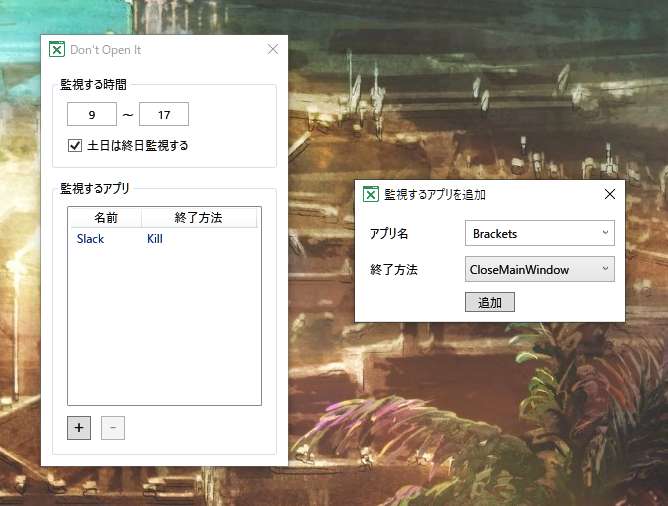
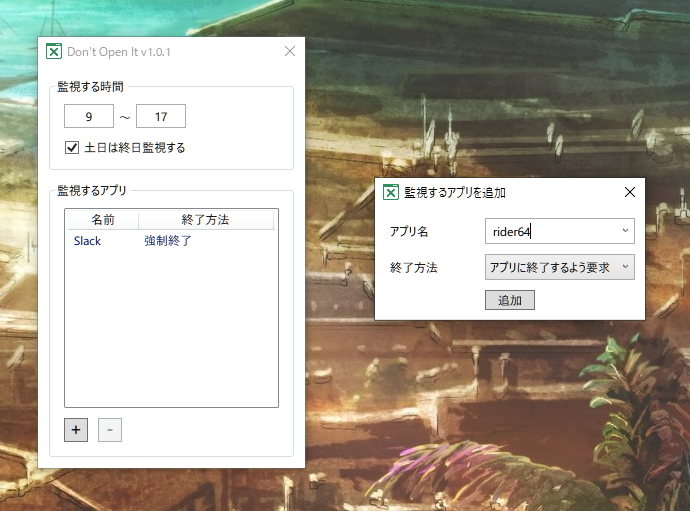
Update README

diff --git a/README.md b/README.md
@@ -1,5 +1,45 @@
 # Don't Open It
 
+**ENGLISH BELOW**
+
+業務時間外についつい業務アプリを開いてしまった時、優しく止めてくれます。
+
+![](doc/message.png)
+
+## 使い方
+
+本アプリは通知領域に現れます。業務時間と監視するアプリを設定したり、不要な場合は一時停止（ミュート）できます。
+
+![](doc/tray.png)
+
+![](doc/settings.png)
+
+| 終了方法                 | 意味                                                         |
+| ------------------------ | ------------------------------------------------------------ |
+| アプリに終了するよう要求 | 終了してくれるようアプリにお願いします。紳士的な方法です。   |
+| 強制終了                 | 強制的に終了します。アプリによっては問題が起きるかも知れません。上の方法で終了しない時に。 |
+
+## 多言語対応
+
+- 日本語
+- 英語
+
+## ライセンス
+
+### ProcessWatcher
+
+Copyright (c) 2018 Daniel Belz  
+Released under the MIT license  
+https://github.com/LegendaryB/ProcessWatcher/blob/master/LICENSE.md
+
+### Don't Open It
+
+Copyright (c) 2021 Yuto Fushimi  
+Released under the MIT license  
+[LICENSE](LICENSE)
+
+# English
+
 Prevent to launch specific app when you are not in working time.
 
 ![](doc/message.png)
@@ -11,6 +51,11 @@ This app is in notification area. You could add apps to observe.
 ![](doc/tray.png)
 
 ![](doc/settings.png)
+
+| Kill Method     | Detail                                                       |
+| --------------- | ------------------------------------------------------------ |
+| Request to exit | Ask an app to terminate.                                     |
+| Force exit      | Kills an app forcedly. This may cause problems. Use it when the above method does not work. |
 
 ## Localization
 
